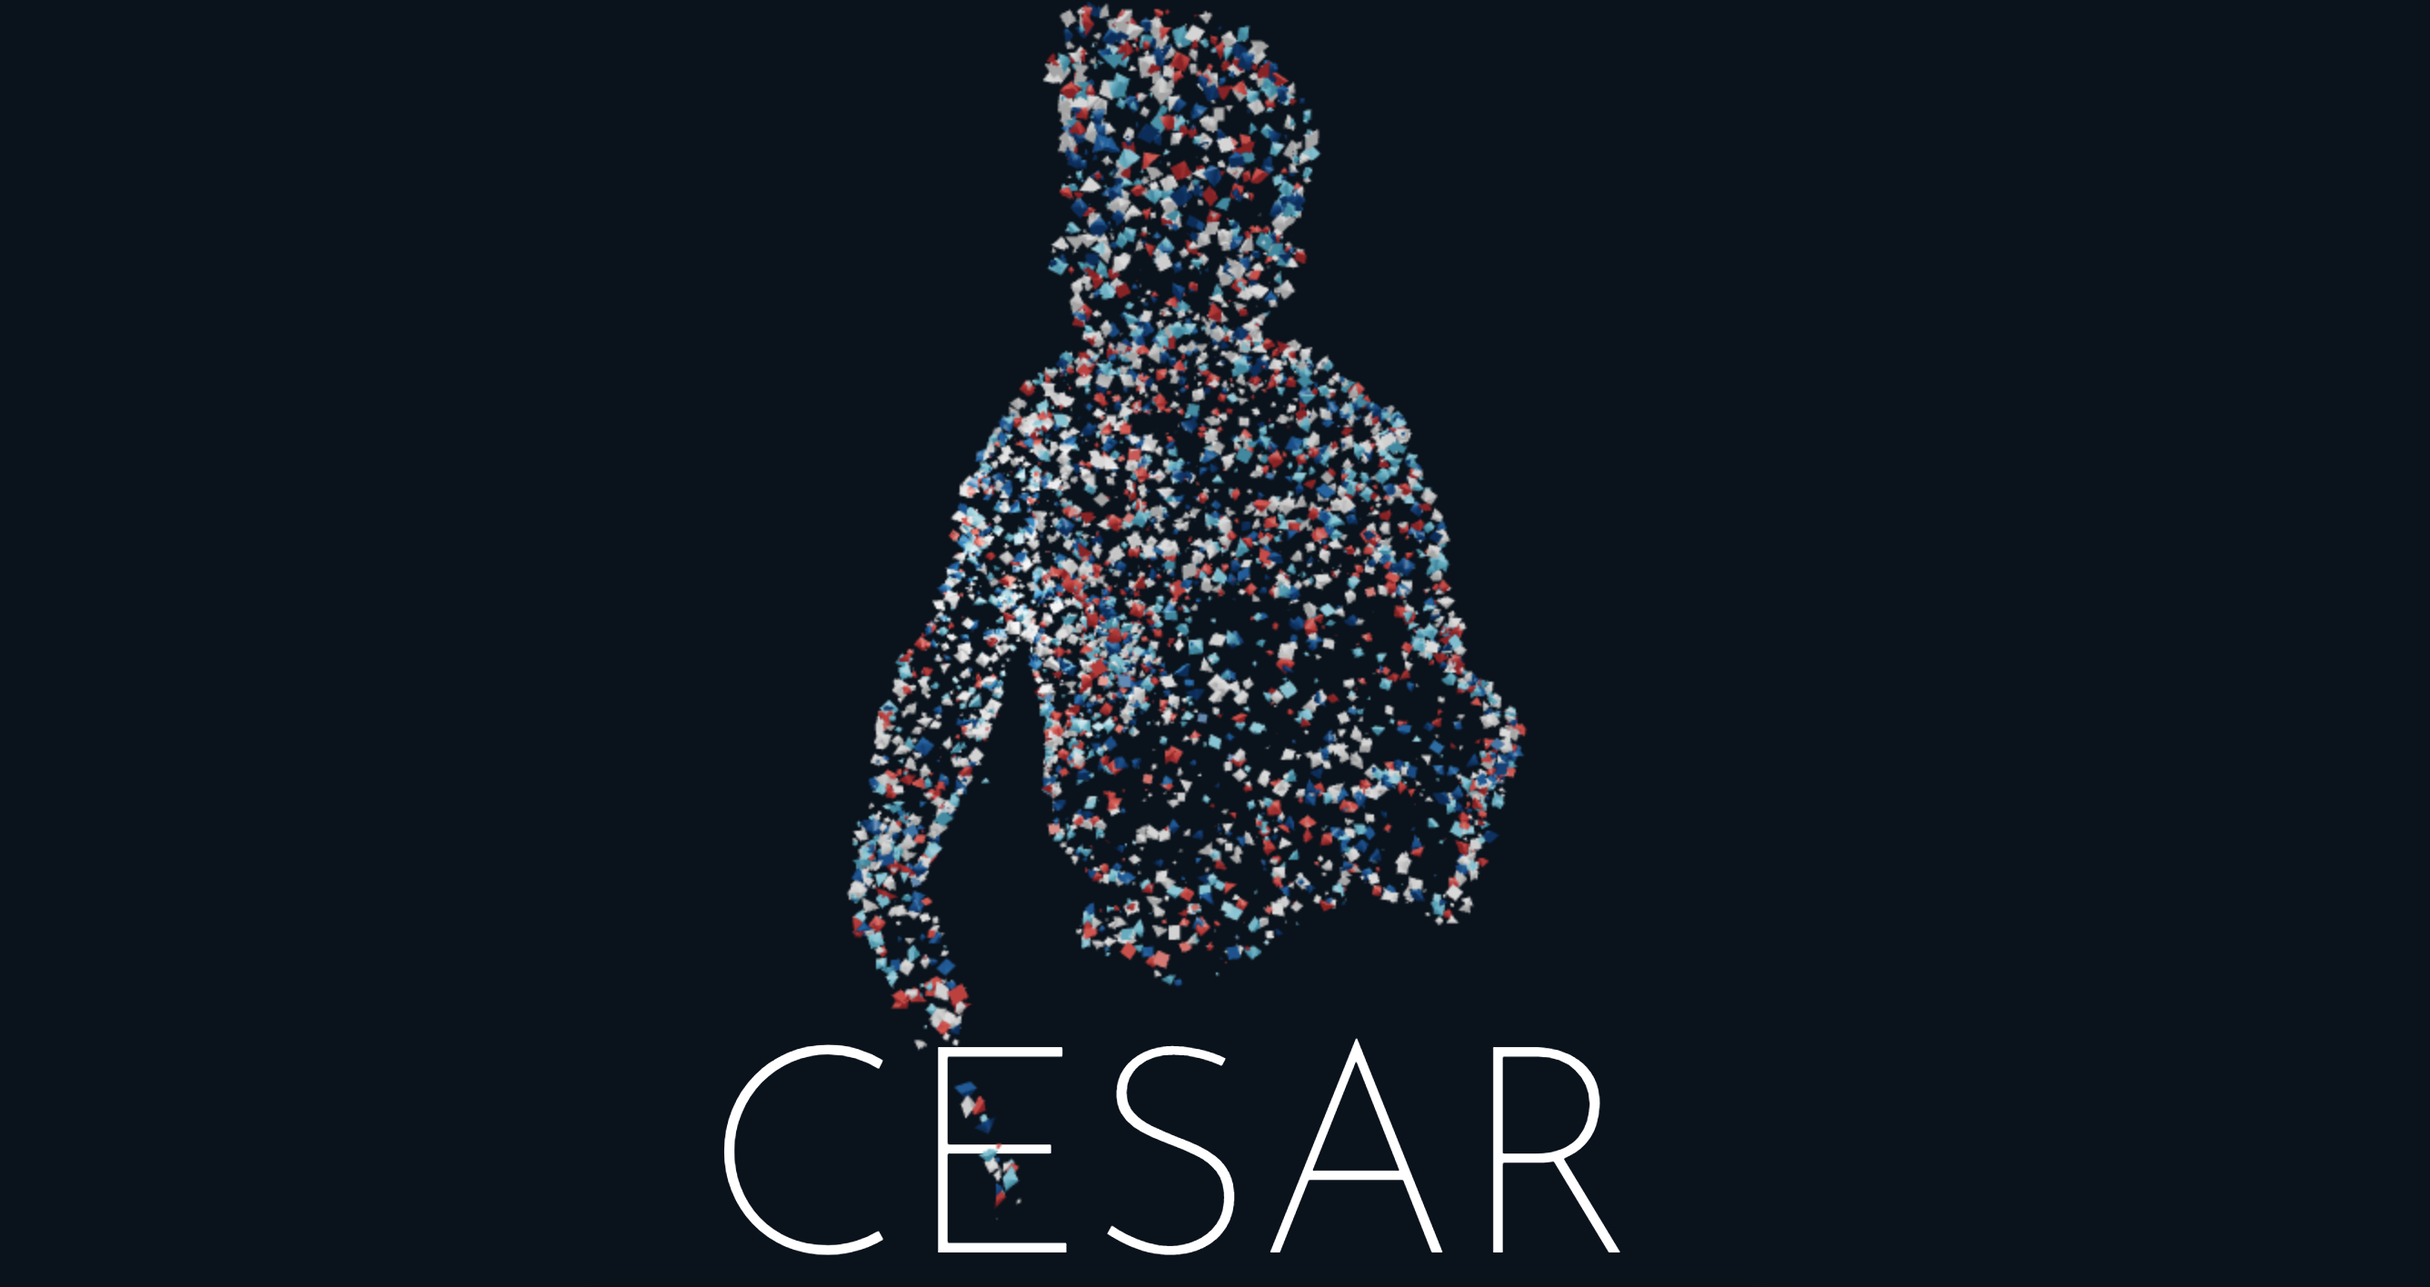
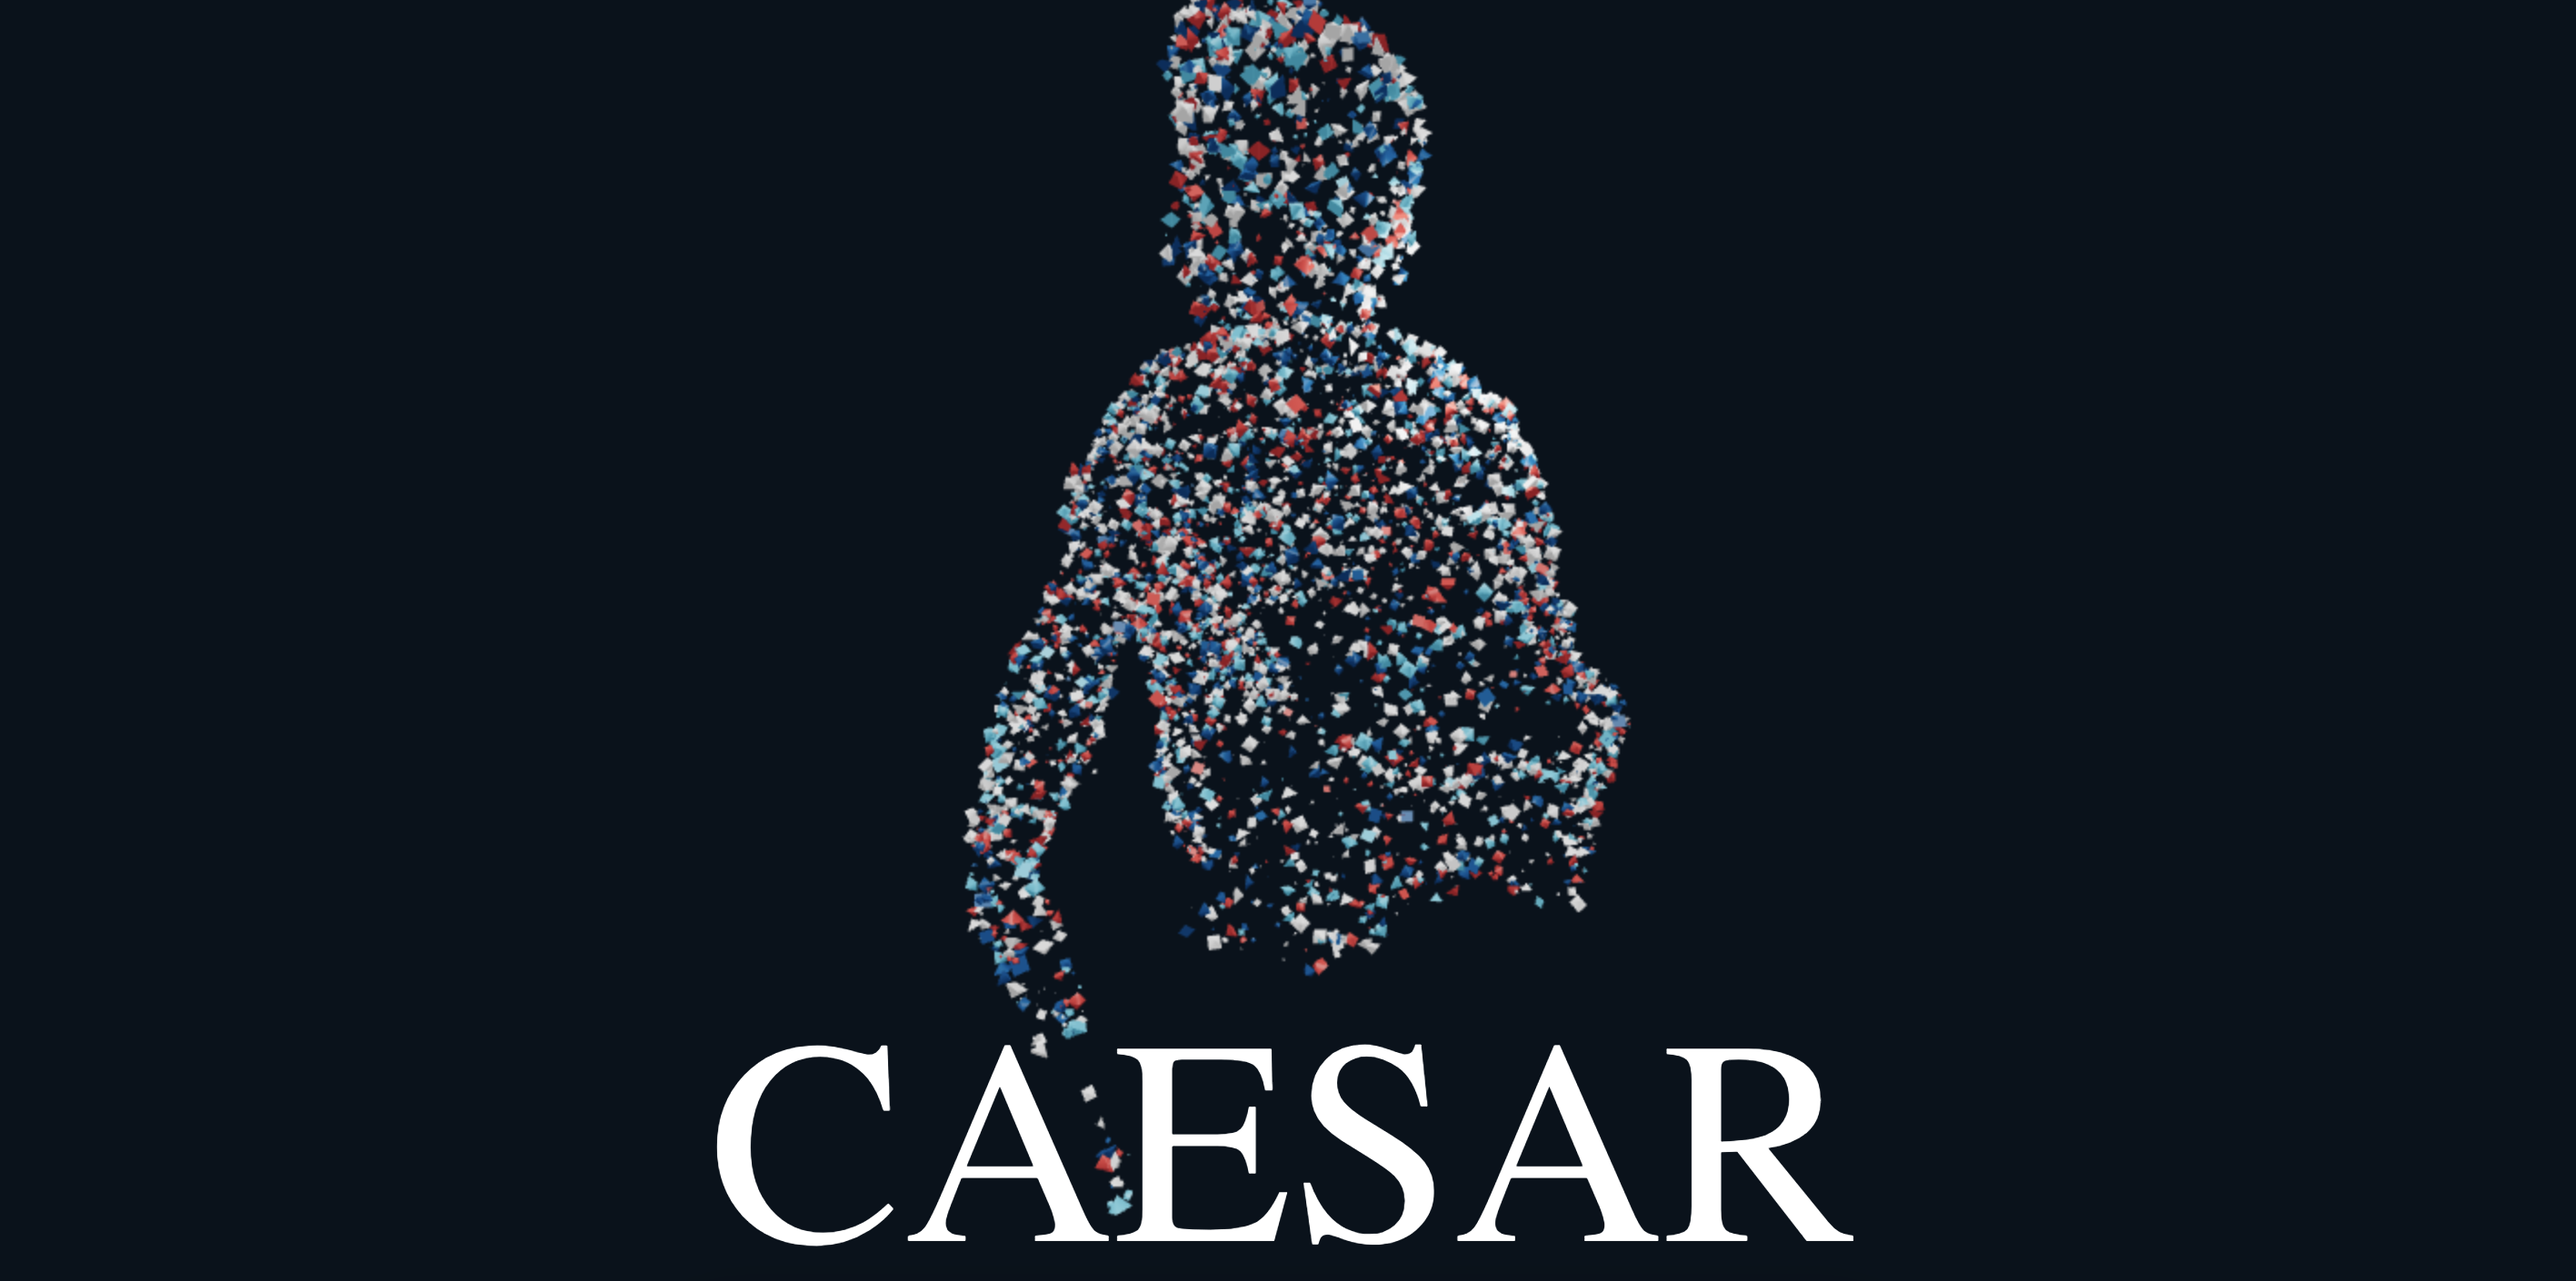
Updating readme

Changed region(s): [[0.2794, 0.0, 0.7139, 0.9986]]

diff --git a/src/App.tsx b/src/App.tsx
@@ -6,7 +6,7 @@ const App = () => {
     <div className='App'>
       <Scene />
       <div className='background'>
-        <h1>cesar</h1>
+        <h1>Caesar</h1>
       </div>
     </div>
   )
